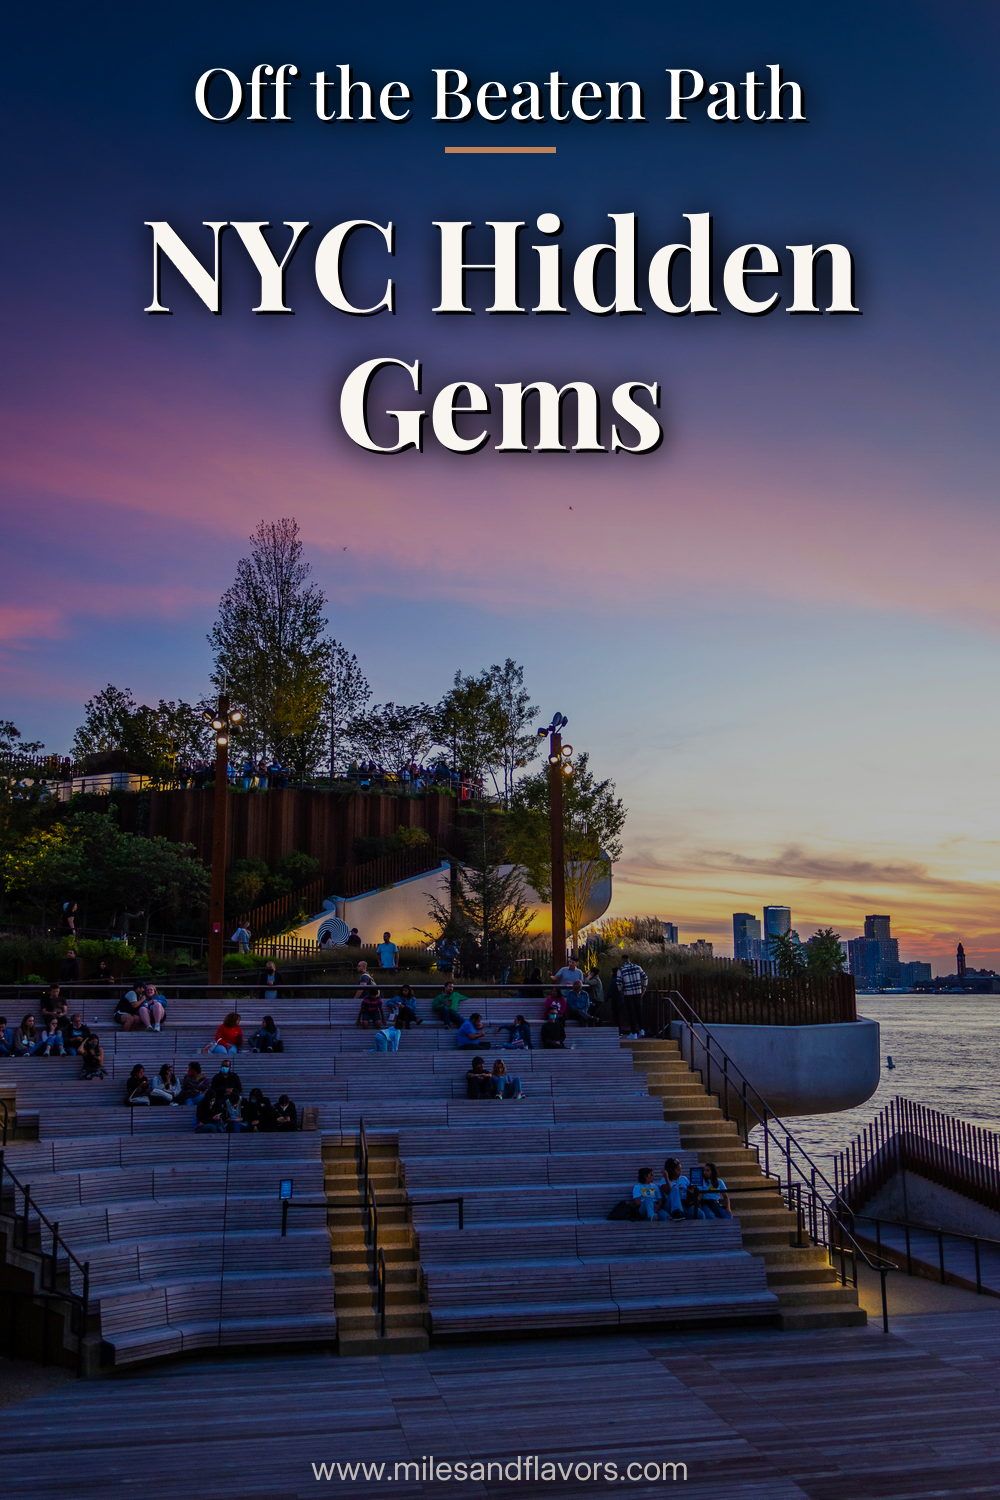
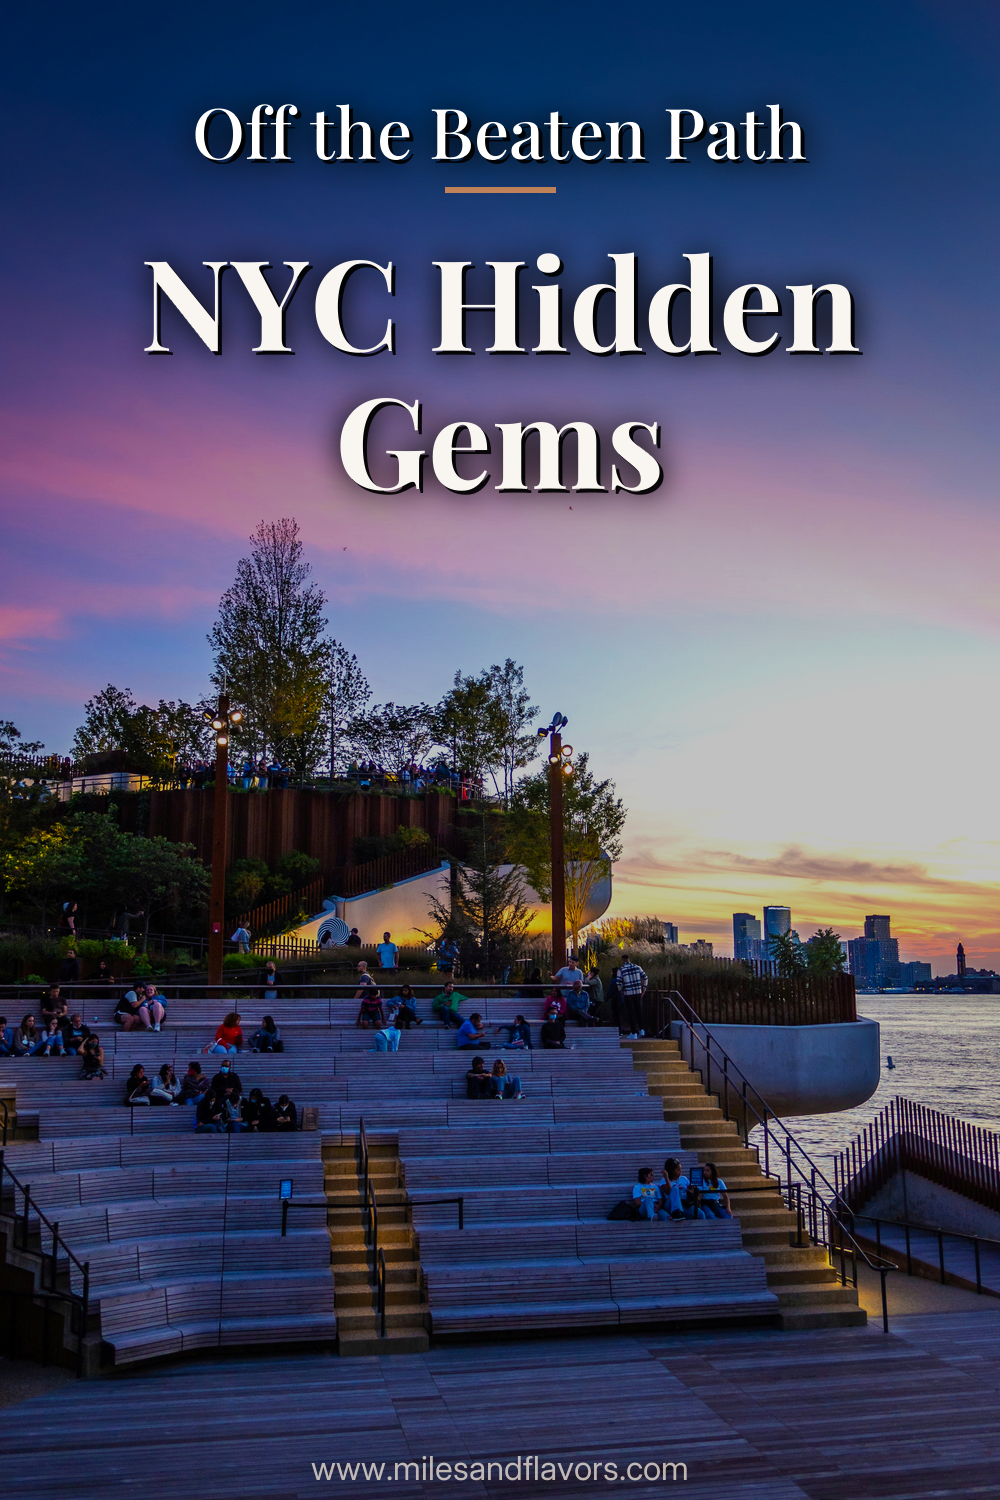
Switch to brightening/vivifying filter instead of darkening; move most pins to bottom zone; fix Barcelona Free Things photo (Park Guell mosaic bench is paid, swapped to Gothic Quarter bridge which is free)
- render.py: 'dark' preset was overlay_alpha=100/brightness=1.0 (net darkening); now 68/1.10. All presets gained a brightness floor, global vibrance 1.30->1.38. Legibility still carried by the (already strengthened) text shadow/glow, not by dimming the photo.
- Moved 4 batch-2 pins from Top to Bottom zone per user preference
- Barcelona Free Things: Park Guell's mosaic serpentine bench is inside the paid Monumental Zone, contradicting a 'free things to do' pin — swapped to the Gothic Quarter's Pont del Bisbe (genuinely free public street)
- Re-rendered all 21 pins so far (both pin-days) for consistent brightness/legibility
- Audited all 21 alt texts against current Foto+bold+light — all already accurate, no drift found

diff --git a/render.py b/render.py
@@ -251,18 +251,21 @@ def parse_template(template):
         zone_override = "middle"
     else:
         zone_override = None  # auto-detect (pl. "Accent")
+    # 2026-08-18 user kérés: a fotó ne tűnjön "sötétítettnek" — a szöveg olvashatóságát
+    # az árnyék/glow (lásd render_hybrid_pin) vigye, ne egy erős fekete scrim. Minden
+    # preset most brightness>=1.0-t kap (a "dark" is), az overlay_alpha-k lejjebb vitték.
     if "dark" in t:
-        overlay_alpha = 100
-        brightness = 1.0
+        overlay_alpha = 68
+        brightness = 1.10
     elif "light" in t:
-        overlay_alpha = 40
-        brightness = 1.16
+        overlay_alpha = 38
+        brightness = 1.18
     elif "medium" in t:
-        overlay_alpha = 50
-        brightness = 1.0
+        overlay_alpha = 46
+        brightness = 1.08
     else:
-        overlay_alpha = 62
-        brightness = 1.0
+        overlay_alpha = 50
+        brightness = 1.08
     return zone_override, overlay_alpha, brightness
 
 
@@ -280,7 +283,7 @@ def render_hybrid_pin(bold, light, photos, zone_override=None, overlay_alpha=90,
     raw_photo = cover(photos[0], W, H)
     if brightness != 1.0:
         raw_photo = ImageEnhance.Brightness(raw_photo).enhance(brightness)
-    raw_photo = ImageEnhance.Color(raw_photo).enhance(1.30)  # vibrance boost (increased 2026-08-04 per user feedback)
+    raw_photo = ImageEnhance.Color(raw_photo).enhance(1.38)  # vibrance boost (2026-08-04: 1.30; 2026-08-18: 1.38, user wants "élénkítő" not "sötétítő" filter)
     base.paste(raw_photo, (0, 0))
 
     # 2. Szöveg zóna: ha van Template override, azt használjuk; különben auto-detect
